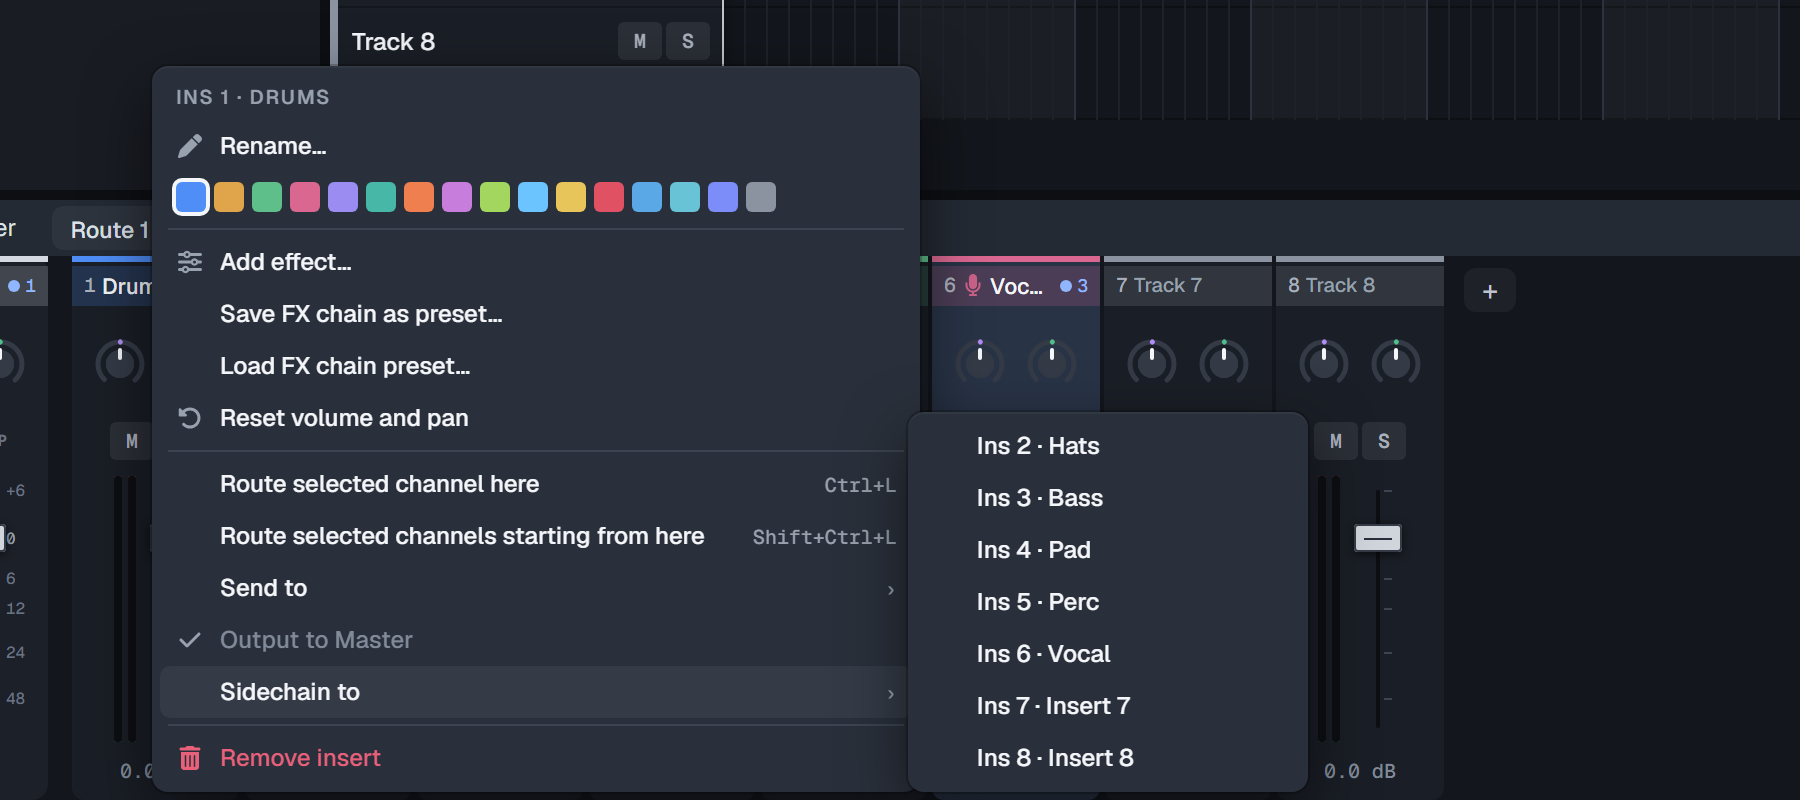
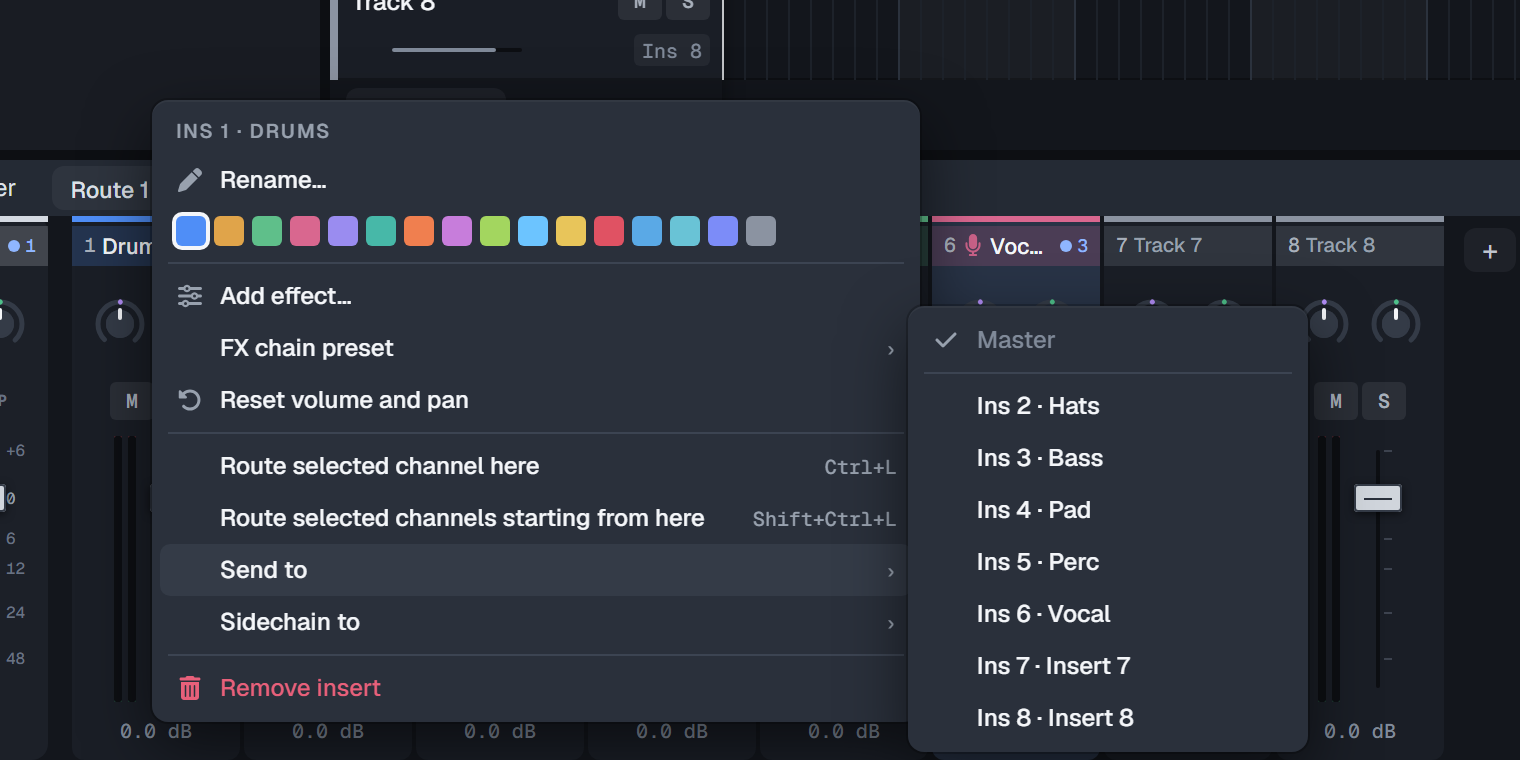
Mixer strip menu: fewer rows
Output to Master is the first entry of Send to, the two FX chain preset items share a submenu,
and the channel routing items show only while channels are selected (the header chip offers the
same). 11 rows become 7 with Sidechain to added.

diff --git a/ui/src/views/Mixer.tsx b/ui/src/views/Mixer.tsx
@@ -83,27 +83,29 @@ function openStripMenu(x: number, y: number, id: Id) {
     { t: 'swatches', current: m.color, pick: col => A.setInsert(id, { color: col }, tr('c.mix.undoColor')) },
     { t: 'sep' },
     { t: 'item', label: tr('c.mix.addFx'), act: () => openFxMenu(x, y, id) },
-    ...chainItems(x, y, m),
+    { t: 'sub', label: tr('c.mix.fxChain'), items: chainItems(x, y, m) },
     { t: 'item', label: tr('c.mix.resetVolPan'), act: () => A.setInsert(id, { vol: VOL_UNITY, pan: 0 }, tr('c.mix.undoReset')) },
     { t: 'sep' },
-    ...routeItems(id),
+    // only while channels are selected in the Channel Rack (the header's chip says so too)
+    ...(selectedChannels().length ? routeItems(id) : []),
     ...(id === 0 ? [] : sendItems(m)),
     ...(id === 0 ? [] : [{ t: 'sep' }, { t: 'item', label: tr('c.mix.removeInsert'), danger: true, act: () => A.removeInsert(id) }] as MenuItem[]),
   ], 330);
 }
 
-/** "Send to ▸" (every other insert: checked = sends there, click = add / remove; greyed when it
- *  would loop, with why) and "Output to Master" (FL's "route to this track only" when off). */
+/** "Send to ▸" (the master, then every other insert: checked = sends there, click = add / remove;
+ *  greyed when it would loop, with why) and "Sidechain to ▸". */
 function sendItems(m: Insert): MenuItem[] {
   const sends = sendsOf(m);
   const targets = S.project.inserts.filter(x => x.id !== 0 && x.id !== m.id);
+  // the master is the first target: unticking it is FL's "route to this track only"
+  const master: MenuItem = { t: 'item', label: 'Master', checked: toMaster(m), disabled: toMaster(m) && !sends.length, title: tr('c.rt.toMasterTip'), act: () => setToMaster(m.id, !toMaster(m)) };
   return [
-    { t: 'sub', label: tr('c.rt.sendTo'), items: targets.length ? targets.map(x => {
+    { t: 'sub', label: tr('c.rt.sendTo'), items: [master, { t: 'sep' }, ...(targets.length ? targets.map(x => {
       const s = sends.find(v => v.to === x.id), why = s ? null : sendBlock(m.id, x.id);
       return { t: 'item' as const, label: insName(x), checked: !!s, kbd: s ? pct(s.gain) : undefined, disabled: !!why, title: why ?? undefined,
         act: () => (s ? removeSend(m.id, x.id) : sendTo(m.id, x.id)) };
-    }) : [{ t: 'item', label: tr('c.mix.addInsert'), act: A.addInsert }] },
-    { t: 'item', label: tr('c.rt.toMaster'), checked: toMaster(m), disabled: toMaster(m) && !sends.length, title: tr('c.rt.toMasterTip'), act: () => setToMaster(m.id, !toMaster(m)) },
+    }) : [{ t: 'item' as const, label: tr('c.mix.addInsert'), act: A.addInsert }])] },
     sidechainItems(m),
   ];
 }

diff --git a/ui/src/i18n/part-c.ts b/ui/src/i18n/part-c.ts
@@ -297,6 +297,7 @@ export const en = {
   'c.rt.sendTo': 'Send to',
   'c.rt.toMaster': 'Output to Master',
   'c.rt.toMasterTip': 'Off: the output goes only where this insert sends (FL: route to this track only)',
+  'c.mix.fxChain': 'FX chain preset',
   'c.sc.title': 'Sidechain',
   'c.sc.own': 'Own input',
   'c.sc.ownHint': 'reacts to its own sound',
@@ -751,6 +752,7 @@ export const pl: Record<keyof typeof en, string> = {
   'c.rt.sendTo': 'Wyślij do',
   'c.rt.toMaster': 'Wyjście do Mastera',
   'c.rt.toMasterTip': 'Wyłączone: wyjście idzie tylko tam, gdzie ten insert wysyła (FL: route to this track only)',
+  'c.mix.fxChain': 'Preset łańcucha FX',
   'c.sc.title': 'Sidechain',
   'c.sc.own': 'Własne wejście',
   'c.sc.ownHint': 'reaguje na własny dźwięk',
